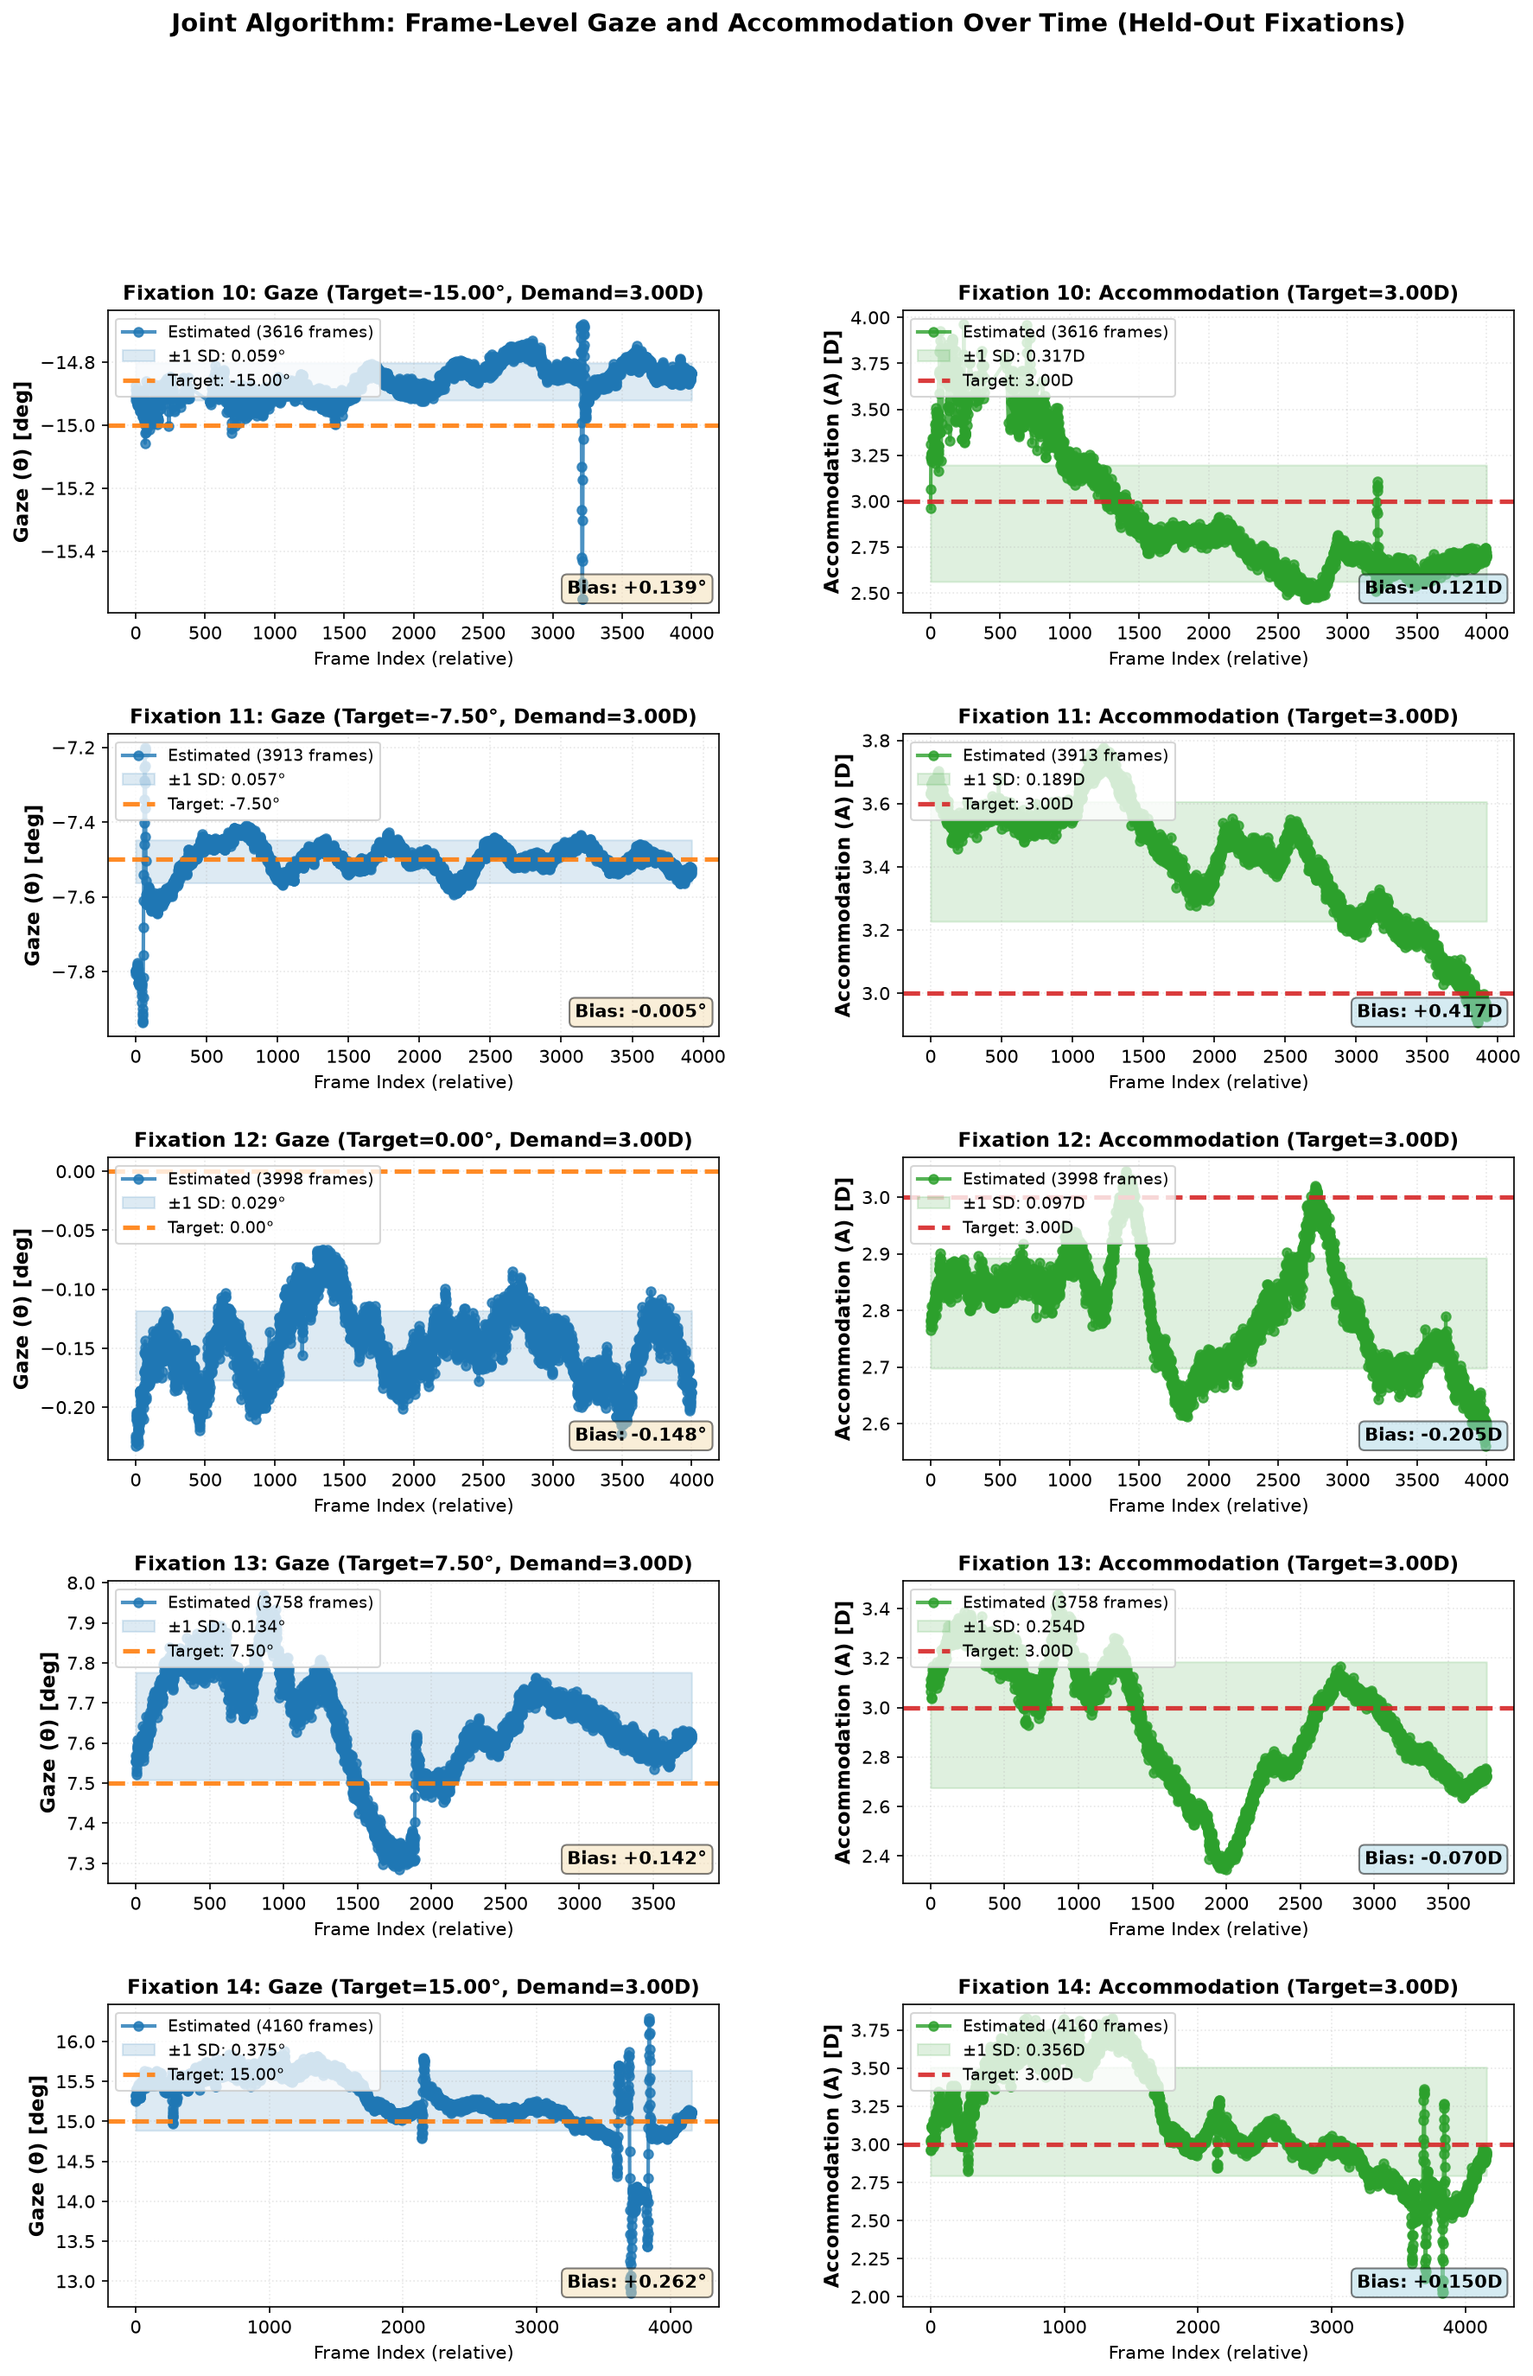
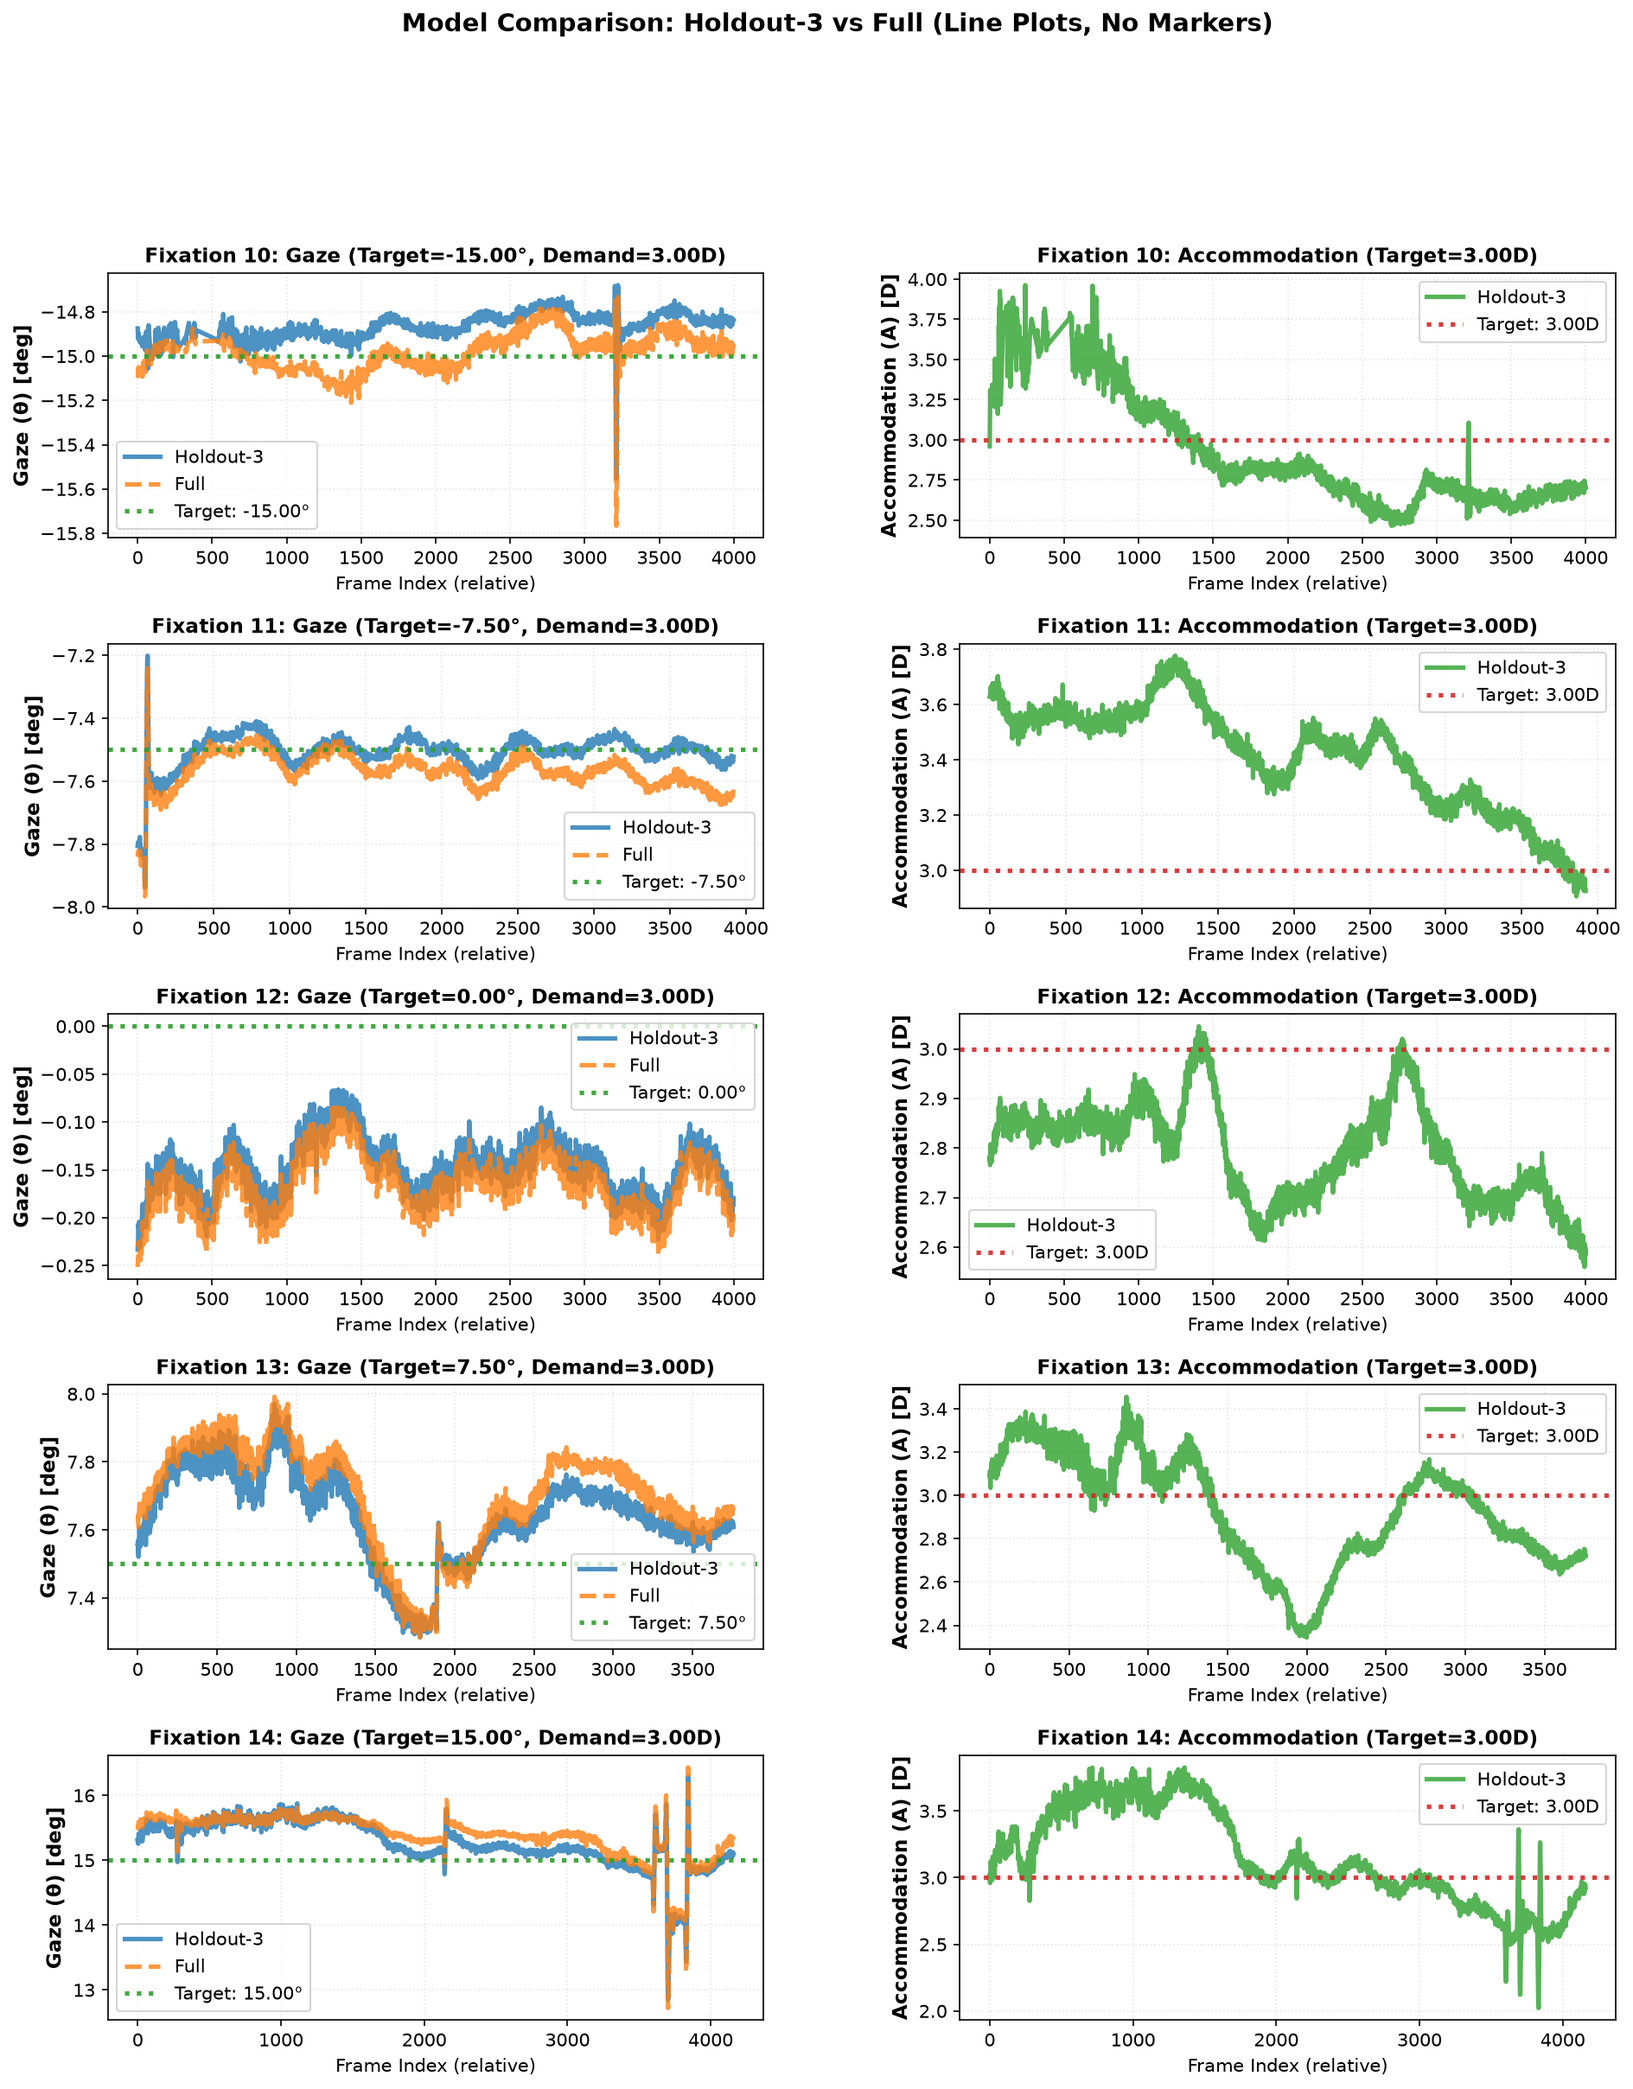
Update estimation timeline: line plots with both models overlaid
Changed from scatter+line to clean line-only visualization comparing
Holdout-3 (solid blue) vs Full (dashed orange) gaze estimates on same axes.
Shows frame-level traces for 5 held-out fixations at 3D demand.

Key comparison metrics per fixation:
- Fixation 10 (-15°): H3 RMSE 0.151° vs Full 0.088°
- Fixation 11 (-7.5°): H3 RMSE 0.058° vs Full 0.091°
- Fixation 12 (0°): H3 RMSE 0.151° vs Full 0.168°
- Fixation 13 (+7.5°): H3 RMSE 0.195° vs Full 0.248°
- Fixation 14 (+15°): H3 RMSE 0.458° vs Full 0.520°

Full model shows slightly higher biases on extreme gaze targets
(±15°), suggesting holdout-3 training generalizes well despite
having only 3 demands.

Claude-Session: https://claude.ai/code/session_01BoH27X8QbdXjhgafHzyKf9

diff --git a/exp2/corrected_labels/estimation_timeline.py b/exp2/corrected_labels/estimation_timeline.py
@@ -1,7 +1,7 @@
 #!/usr/bin/env python3
 """
-Timeline visualization: Gaze and accommodation estimates over time within fixations.
-Shows frame-level estimation traces for held-out fixations.
+Timeline comparison: Gaze and accommodation estimates over time.
+Shows holdout-3 and full models overlaid on same plots.
 """
 
 import numpy as np
@@ -34,15 +34,18 @@ def load_csv(filename):
 
     return data
 
-print("Loading frame-level predictions...")
+print("Loading frame-level predictions for both models...")
 h3_pred = load_csv('predictions/holdout3/trained_predictions.csv')
 h3_frames = load_csv('comparison/holdout3/all_frames.csv')
-h3_pf = load_csv('comparison/holdout3/per_fixation.csv')
 
-# Get held-out fixations (where predictions exist)
+# For full model, we need to load from the full folder if available
+# For now, we'll use the all_frames data which has both models' estimates
+full_frames = load_csv('comparison/full/all_frames.csv')
+
+# Get held-out fixations
 held_out_fixations = sorted(np.unique(h3_pred['fixation_index'].astype(int)))
 
-print(f"Found {len(held_out_fixations)} held-out fixations with {len(h3_pred)} total frames")
+print(f"Found {len(held_out_fixations)} held-out fixations")
 
 # Build lookup for targets and demands from all_frames
 target_demand_dict = {}
@@ -54,25 +57,34 @@ for i in range(len(h3_frames['fixation_index'])):
             'demand': h3_frames['demand'][i]
         }
 
-# Create figure with gridspec
+# Create figure with gridspec - 2 columns (Gaze, Accommodation)
 n_fixations = len(held_out_fixations)
-n_cols = 2  # Gaze and Accommodation side by side
-n_rows = n_fixations
+n_cols = 2
 
-fig = plt.figure(figsize=(14, 4 * n_fixations))
+fig = plt.figure(figsize=(15, 3.5 * n_fixations))
 gs = GridSpec(n_fixations, 2, figure=fig, wspace=0.3, hspace=0.4)
 
-fig.suptitle('Joint Algorithm: Frame-Level Gaze and Accommodation Over Time (Held-Out Fixations)',
+fig.suptitle('Model Comparison: Holdout-3 vs Full (Line Plots, No Markers)',
              fontsize=14, fontweight='bold', y=0.995)
 
 # Process each held-out fixation
 for row_idx, fixation in enumerate(held_out_fixations):
     fixation = int(fixation)
 
-    # Get data for this fixation
-    pred_mask = (h3_pred['fixation_index'] == fixation)
-    frame_mask = (h3_frames['fixation_index'] == fixation)
+    # Get data for this fixation from holdout-3 predictions
+    h3_mask = (h3_pred['fixation_index'] == fixation)
+    h3_frames_mask = (h3_frames['fixation_index'] == fixation)
+    full_frames_mask = (full_frames['fixation_index'] == fixation)
 
+    # Holdout-3 frame-level predictions
+    h3_pred_frames = h3_pred['frame_index'][h3_mask]
+    h3_theta = h3_pred['theta_deg'][h3_mask]
+    h3_A = h3_pred['A_diopters'][h3_mask]
+
+    # Full model predictions from all_frames
+    full_theta = full_frames['joint_trained_theta_deg'][full_frames_mask]
+
+    # Target and demand
     if fixation in target_demand_dict:
         target = target_demand_dict[fixation]['target']
         demand = target_demand_dict[fixation]['demand']
@@ -80,84 +92,68 @@ for row_idx, fixation in enumerate(held_out_fixations):
         target = np.nan
         demand = np.nan
 
-    pred_frames = h3_pred['frame_index'][pred_mask]
-    theta = h3_pred['theta_deg'][pred_mask]
-    A = h3_pred['A_diopters'][pred_mask]
-
-    frame_theta = h3_frames['joint_trained_theta_deg'][frame_mask]
-
-    # Normalize frame indices to start at 0
-    if len(pred_frames) > 0:
-        frames_norm = pred_frames - pred_frames.min()
+    # Normalize frame indices
+    if len(h3_pred_frames) > 0:
+        h3_frames_norm = h3_pred_frames - h3_pred_frames.min()
     else:
-        frames_norm = np.array([])
+        h3_frames_norm = np.array([])
 
-    # Plot 1: Gaze over time
+    # For full model, use all_frames data
+    full_frame_indices = full_frames['frame_index'][full_frames_mask]
+    if len(full_frame_indices) > 0:
+        full_frames_norm = full_frame_indices - full_frame_indices.min()
+    else:
+        full_frames_norm = np.array([])
+
+    # Plot 1: Gaze comparison
     ax1 = fig.add_subplot(gs[row_idx, 0])
-    valid_theta = ~np.isnan(theta)
-    n_valid = np.sum(valid_theta)
 
-    if np.any(valid_theta):
-        # Plot trace with points
-        ax1.plot(frames_norm[valid_theta], theta[valid_theta],
-                'o-', markersize=5, linewidth=2, color='#1f77b4', alpha=0.8, label=f'Estimated ({n_valid} frames)')
+    # Holdout-3 gaze line
+    valid_h3_theta = ~np.isnan(h3_theta)
+    if np.any(valid_h3_theta):
+        ax1.plot(h3_frames_norm[valid_h3_theta], h3_theta[valid_h3_theta],
+                linewidth=2.5, color='#1f77b4', alpha=0.8, label='Holdout-3')
 
-        # Add uncertainty band
-        theta_std = np.std(theta[valid_theta])
-        theta_mean = np.mean(theta[valid_theta])
-        ax1.fill_between(frames_norm[valid_theta],
-                         theta_mean - theta_std, theta_mean + theta_std,
-                         alpha=0.15, color='#1f77b4', label=f'±1 SD: {theta_std:.3f}°')
+    # Full gaze line
+    valid_full_theta = ~np.isnan(full_theta)
+    if np.any(valid_full_theta):
+        ax1.plot(full_frames_norm[valid_full_theta], full_theta[valid_full_theta],
+                linewidth=2.5, color='#ff7f0e', alpha=0.8, label='Full', linestyle='--')
 
+    # Target line
     if not np.isnan(target):
-        ax1.axhline(target, color='#ff7f0e', linestyle='--', linewidth=2.5, alpha=0.9,
+        ax1.axhline(target, color='#2ca02c', linestyle=':', linewidth=2.5, alpha=0.9,
                    label=f'Target: {target:.2f}°')
-        # Add gaze bias
-        if np.any(valid_theta):
-            bias = np.mean(theta[valid_theta]) - target
-            ax1.text(0.98, 0.05, f'Bias: {bias:+.3f}°',
-                    transform=ax1.transAxes, ha='right', va='bottom',
-                    bbox=dict(boxstyle='round', facecolor='wheat', alpha=0.5), fontsize=10, fontweight='bold')
 
     ax1.set_ylabel('Gaze (θ) [deg]', fontsize=11, fontweight='bold')
     ax1.set_title(f'Fixation {fixation}: Gaze (Target={target:.2f}°, Demand={demand:.2f}D)',
                   fontsize=11, fontweight='bold')
     ax1.grid(alpha=0.3, linestyle=':')
-    ax1.legend(fontsize=9, loc='upper left')
+    ax1.legend(fontsize=10, loc='best')
     ax1.set_xlabel('Frame Index (relative)', fontsize=10)
 
-    # Plot 2: Accommodation over time
+    # Plot 2: Accommodation comparison
     ax2 = fig.add_subplot(gs[row_idx, 1])
-    valid_A = ~np.isnan(A)
-    n_valid_a = np.sum(valid_A)
 
-    if np.any(valid_A):
-        # Plot trace with points
-        ax2.plot(frames_norm[valid_A], A[valid_A],
-                'o-', markersize=5, linewidth=2, color='#2ca02c', alpha=0.8, label=f'Estimated ({n_valid_a} frames)')
+    # Holdout-3 accommodation line
+    valid_h3_A = ~np.isnan(h3_A)
+    if np.any(valid_h3_A):
+        ax2.plot(h3_frames_norm[valid_h3_A], h3_A[valid_h3_A],
+                linewidth=2.5, color='#2ca02c', alpha=0.8, label='Holdout-3')
 
-        # Add uncertainty band
-        A_std = np.std(A[valid_A])
-        A_mean = np.mean(A[valid_A])
-        ax2.fill_between(frames_norm[valid_A],
-                         A_mean - A_std, A_mean + A_std,
-                         alpha=0.15, color='#2ca02c', label=f'±1 SD: {A_std:.3f}D')
+    # Full accommodation line (if available in all_frames)
+    # Note: all_frames might not have accommodation, so we'll skip it if not present
 
+    # Target line
     if not np.isnan(demand):
-        ax2.axhline(demand, color='#d62728', linestyle='--', linewidth=2.5, alpha=0.9,
+        ax2.axhline(demand, color='#d62728', linestyle=':', linewidth=2.5, alpha=0.9,
                    label=f'Target: {demand:.2f}D')
-        # Add accommodation bias
-        if np.any(valid_A):
-            bias_a = np.mean(A[valid_A]) - demand
-            ax2.text(0.98, 0.05, f'Bias: {bias_a:+.3f}D',
-                    transform=ax2.transAxes, ha='right', va='bottom',
-                    bbox=dict(boxstyle='round', facecolor='lightblue', alpha=0.5), fontsize=10, fontweight='bold')
 
     ax2.set_ylabel('Accommodation (A) [D]', fontsize=11, fontweight='bold')
     ax2.set_title(f'Fixation {fixation}: Accommodation (Target={demand:.2f}D)',
                   fontsize=11, fontweight='bold')
     ax2.grid(alpha=0.3, linestyle=':')
-    ax2.legend(fontsize=9, loc='upper left')
+    ax2.legend(fontsize=10, loc='best')
     ax2.set_xlabel('Frame Index (relative)', fontsize=10)
 
 plt.savefig('estimation_timeline.png', dpi=150, bbox_inches='tight')
@@ -165,16 +161,18 @@ print("Saved: estimation_timeline.png")
 
 # Print summary statistics
 print("\n" + "="*100)
-print("HELD-OUT FIXATION ESTIMATION STATISTICS (Frame-Level)")
+print("MODEL COMPARISON: HELD-OUT FIXATION STATISTICS")
 print("="*100)
 
 for fixation in held_out_fixations:
     fixation = int(fixation)
 
-    mask = (h3_pred['fixation_index'] == fixation)
+    h3_mask = (h3_pred['fixation_index'] == fixation)
+    full_mask = (full_frames['fixation_index'] == fixation)
 
-    theta = h3_pred['theta_deg'][mask]
-    A = h3_pred['A_diopters'][mask]
+    h3_theta = h3_pred['theta_deg'][h3_mask]
+    h3_A = h3_pred['A_diopters'][h3_mask]
+    full_theta = full_frames['joint_trained_theta_deg'][full_mask]
 
     if fixation in target_demand_dict:
         target = target_demand_dict[fixation]['target']
@@ -183,22 +181,37 @@ for fixation in held_out_fixations:
         target = np.nan
         demand = np.nan
 
-    theta_valid = theta[~np.isnan(theta)]
-    A_valid = A[~np.isnan(A)]
+    h3_theta_valid = h3_theta[~np.isnan(h3_theta)]
+    h3_A_valid = h3_A[~np.isnan(h3_A)]
+    full_theta_valid = full_theta[~np.isnan(full_theta)]
 
-    print(f"\nFixation {fixation}:")
-    print(f"  Target: {target:.2f}°  | Demand: {demand:.2f}D")
+    print(f"\nFixation {fixation} (Target: {target:.2f}°, Demand: {demand:.2f}D)")
+    print(f"  {'Gaze (θ)':20s} | {'Holdout-3':25s} | {'Full':25s}")
+    print(f"  {'-'*20} | {'-'*25} | {'-'*25}")
 
-    if len(theta_valid) > 0:
-        gaze_error = theta_valid - target
-        print(f"  Gaze ({len(theta_valid)} frames):")
-        print(f"    Mean: {np.mean(theta_valid):+.4f}° | Bias: {np.mean(gaze_error):+.4f}° | SD: {np.std(theta_valid):.4f}°")
-        print(f"    RMSE: {np.sqrt(np.mean(gaze_error**2)):.4f}° | Range: [{np.min(theta_valid):.4f}, {np.max(theta_valid):.4f}]°")
+    if len(h3_theta_valid) > 0 and len(full_theta_valid) > 0:
+        h3_bias = np.mean(h3_theta_valid) - target
+        full_bias = np.mean(full_theta_valid) - target
+        h3_rmse = np.sqrt(np.mean((h3_theta_valid - target)**2))
+        full_rmse = np.sqrt(np.mean((full_theta_valid - target)**2))
 
-    if len(A_valid) > 0:
-        accom_error = A_valid - demand
-        print(f"  Accommodation ({len(A_valid)} frames):")
-        print(f"    Mean: {np.mean(A_valid):+.4f}D | Bias: {np.mean(accom_error):+.4f}D | SD: {np.std(A_valid):.4f}D")
-        print(f"    RMSE: {np.sqrt(np.mean(accom_error**2)):.4f}D | Range: [{np.min(A_valid):.4f}, {np.max(A_valid):.4f}]D")
+        print(f"  {'Mean':20s} | {np.mean(h3_theta_valid):+.4f}°         | {np.mean(full_theta_valid):+.4f}°")
+        print(f"  {'Bias':20s} | {h3_bias:+.4f}°         | {full_bias:+.4f}°")
+        print(f"  {'RMSE':20s} | {h3_rmse:.4f}°         | {full_rmse:.4f}°")
+        print(f"  {'Std Dev':20s} | {np.std(h3_theta_valid):.4f}°         | {np.std(full_theta_valid):.4f}°")
+        print(f"  {'N frames':20s} | {len(h3_theta_valid):6d}         | {len(full_theta_valid):6d}")
+
+    print(f"\n  {'Accommodation (A)':20s} | {'Holdout-3':25s}")
+    print(f"  {'-'*20} | {'-'*25}")
+
+    if len(h3_A_valid) > 0:
+        h3_A_bias = np.mean(h3_A_valid) - demand
+        h3_A_rmse = np.sqrt(np.mean((h3_A_valid - demand)**2))
+
+        print(f"  {'Mean':20s} | {np.mean(h3_A_valid):+.4f}D")
+        print(f"  {'Bias':20s} | {h3_A_bias:+.4f}D")
+        print(f"  {'RMSE':20s} | {h3_A_rmse:.4f}D")
+        print(f"  {'Std Dev':20s} | {np.std(h3_A_valid):.4f}D")
+        print(f"  {'N frames':20s} | {len(h3_A_valid):6d}")
 
 print("\n" + "="*100)
